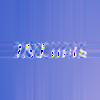
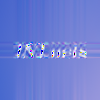
done

diff --git a/src/backend.py b/src/backend.py
@@ -271,10 +271,11 @@ def SVD(m,percentCompress):
     else:
         sv = len(matS)
     sv_used = int(np.round((int(percentCompress)/100)*sv)) #Masukan precentCompress dari 1-100 (semakin kecil, maka semakin banyak sv yang dibuang)
-    matUCompressed = np.delete(matU,[i for i in range(sv_used,np.shape(matU)[1])], 1)
-    matVCompressed = np.delete(matV,[i for i in range(sv_used,np.shape(matV)[0])], 0)
-    matSCompressed = np.delete(matS,[i for i in range(sv_used,np.shape(matS)[1])], 1)
-    matSCompressed = np.delete(matSCompressed,[i for i in range(sv_used,np.shape(matSCompressed)[0])], 0)
+    matUCompressed = matU
+    matVCompressed = matV
+    matSCompressed = np.array(matS)
+    for i in range(sv_used,sv):
+        matSCompressed[i,i]=0
     ret = np.dot(np.dot(matUCompressed, matSCompressed), matVCompressed)
     for i in range(len(ret)):
         for j in range(len(ret[0])):

diff --git a/src/index.php b/src/index.php
@@ -7,7 +7,7 @@
 	<h1>Image Compression</h1><hr>
 	<form action="index.php" enctype="multipart/form-data" method="post">
 		Select image to compress: <input type="file" name="file"><br><br>
-		Singular value used: <input type="text" name="fname"><br><br>
+		Enter Compression Percent (1-100): <input type="text" name="fname"><br><br>
 		<input type="submit" value="Submit" name="Submit"><br>
 	</form>
 
@@ -17,7 +17,7 @@ if(isset($_POST['Submit'])){
 	$filepath = "images/" . $file;
 	$testpath = "../test/". $file;
 	$compressed="images/compressed_" .$file;
-	$testcompressed="../test/".$file;
+	$testcompressed="../test/compressed_".$file;
 	if(move_uploaded_file($_FILES["file"]["tmp_name"], $filepath)) {
 		echo "Original Image: <br/><br/>";
 		echo "<img src=\"".$filepath."\" height=360> <br/>";
